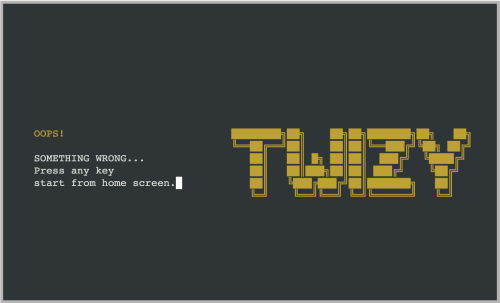
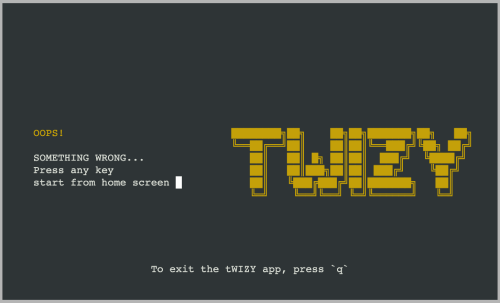
Add hint to Error screen

diff --git a/screens/error_screen.py b/screens/error_screen.py
@@ -50,6 +50,7 @@ def error_screen_handler(stdscr):
         Text("SOMETHING WRONG...", 12, layout.FRAME_PADDING_LEFT, color),
         Text("Press any key", 13, layout.FRAME_PADDING_LEFT,
              color),
+        CenteredText("To exit the tWIZY app, press `q` ", 21, color)
     ]
 
     # Add the logo lines as text elements,
@@ -59,7 +60,7 @@ def error_screen_handler(stdscr):
                              accent_color))
 
     # Add hint text on 14th line
-    elements.append(Text("start from home screen.", 14,
+    elements.append(Text("start from home screen ", 14,
                     layout.FRAME_PADDING_LEFT, color))
 
     # Clear screen
